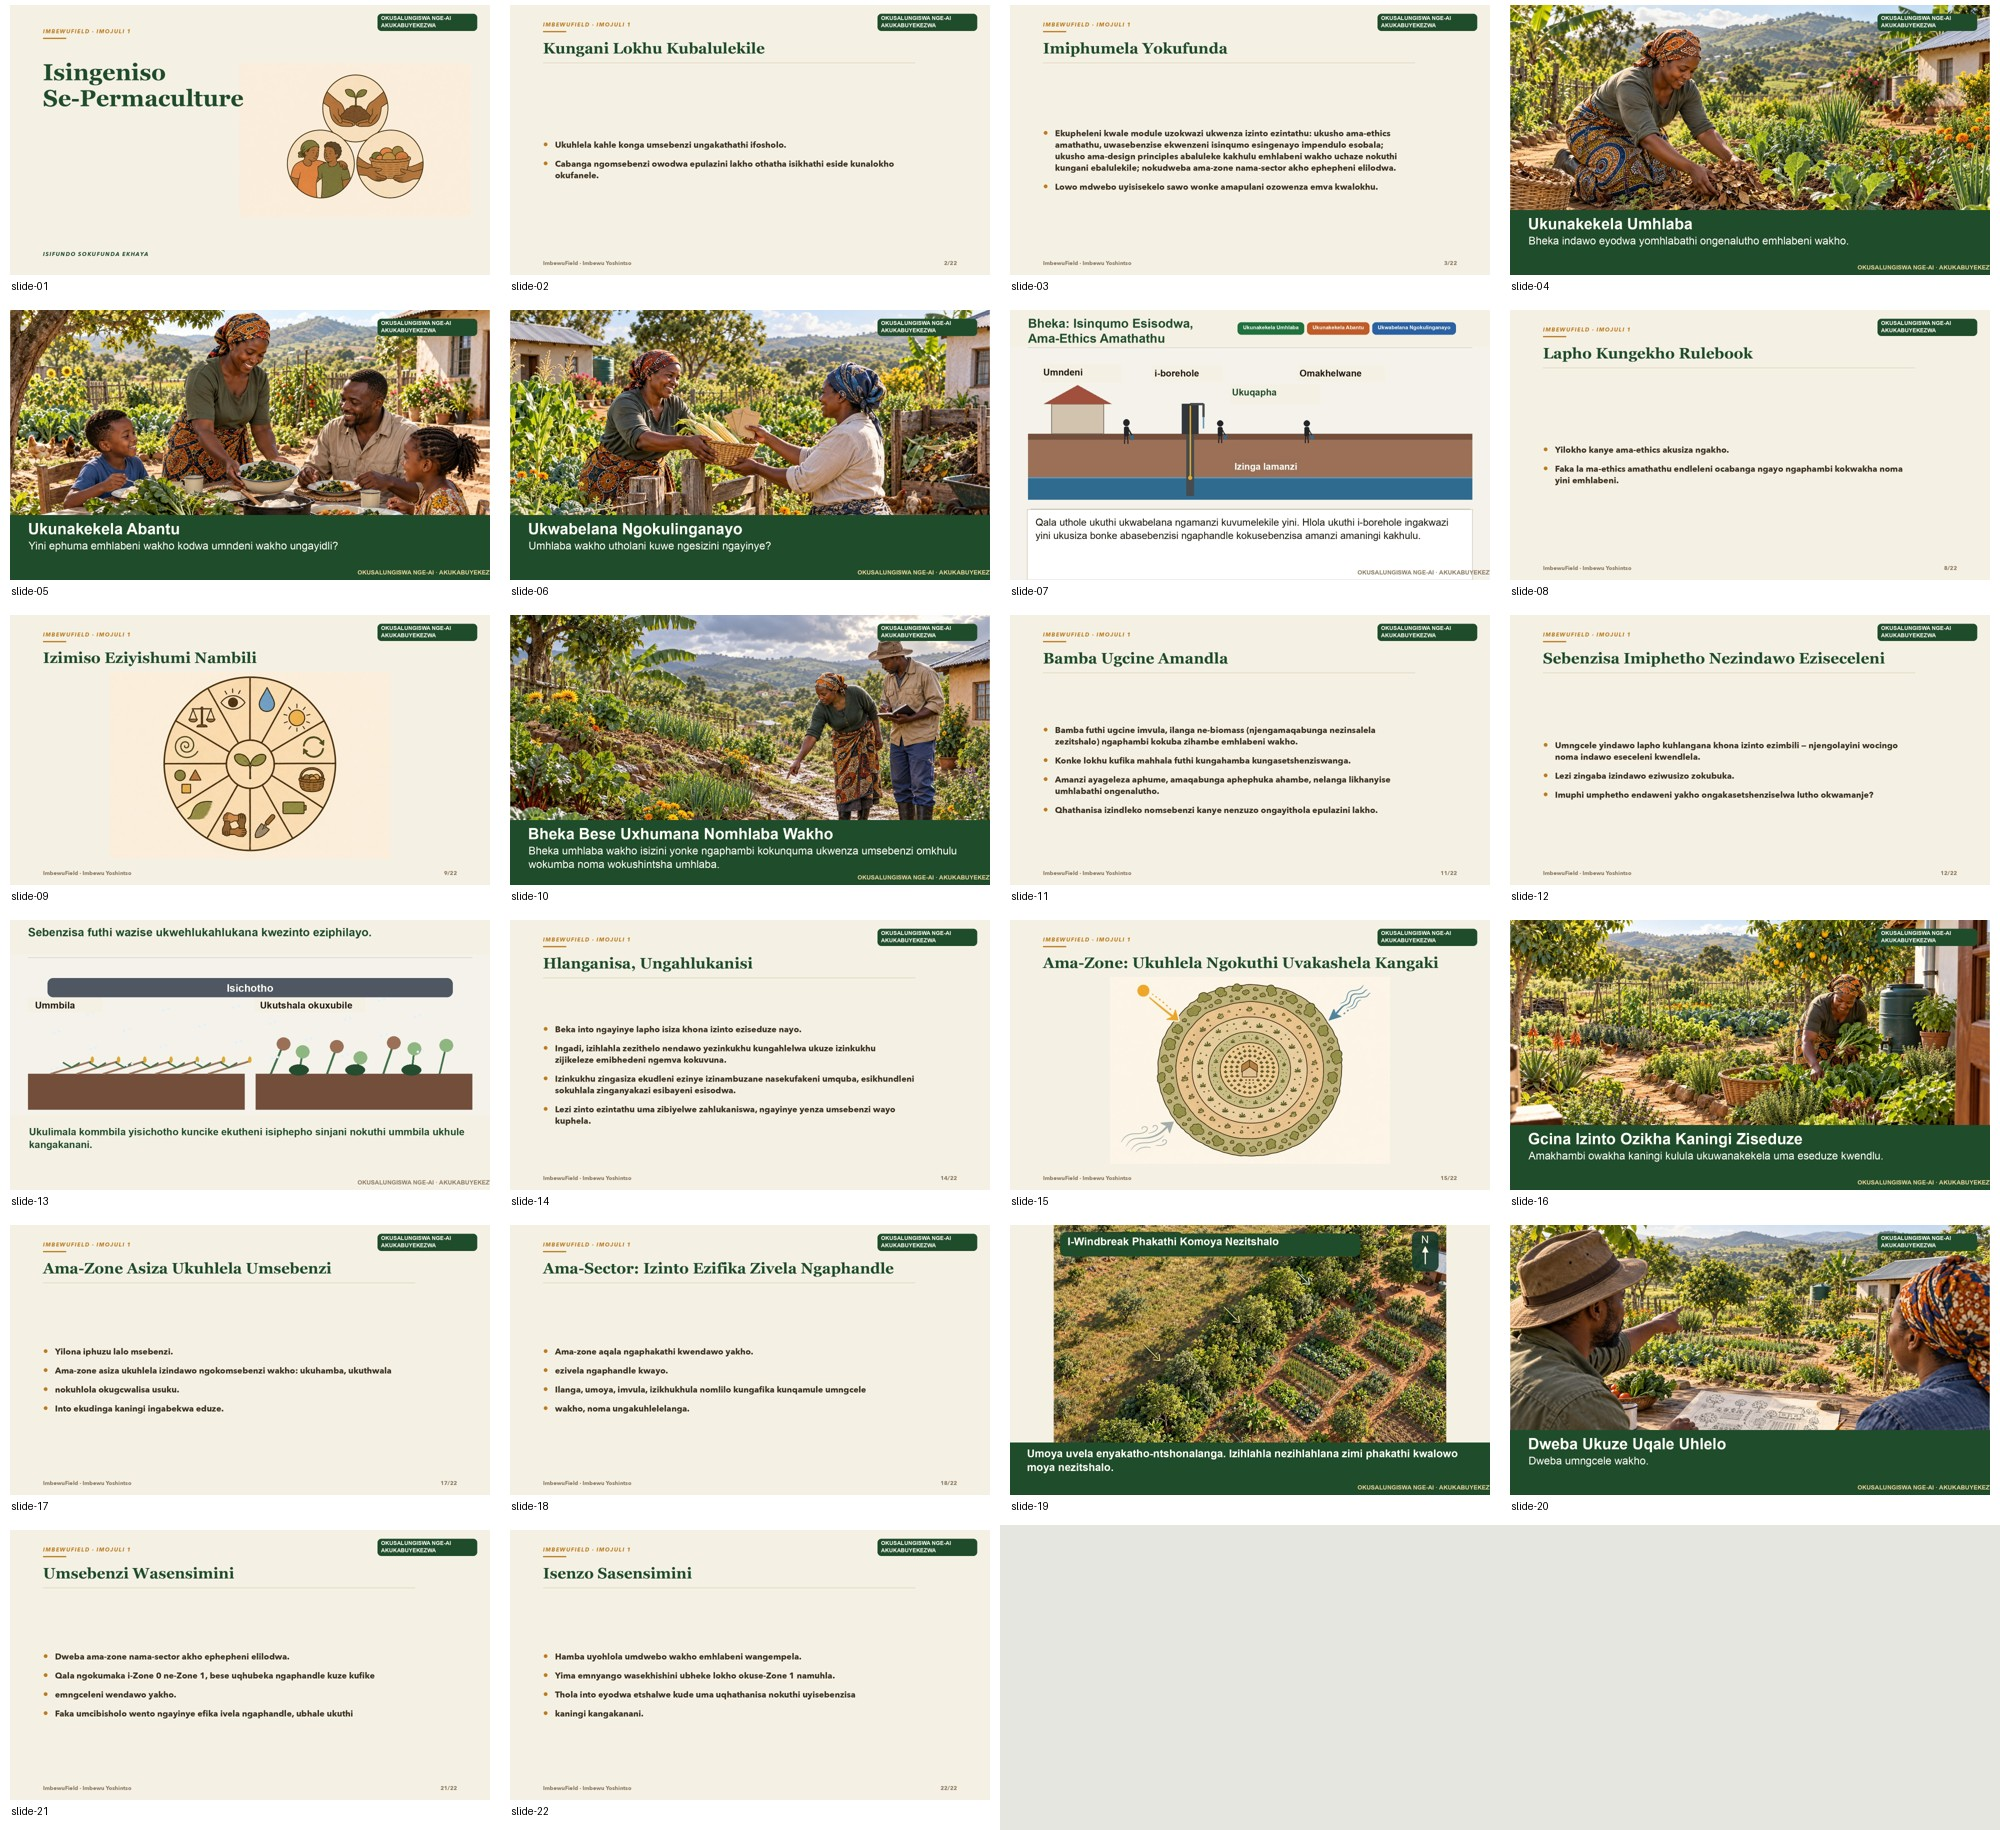
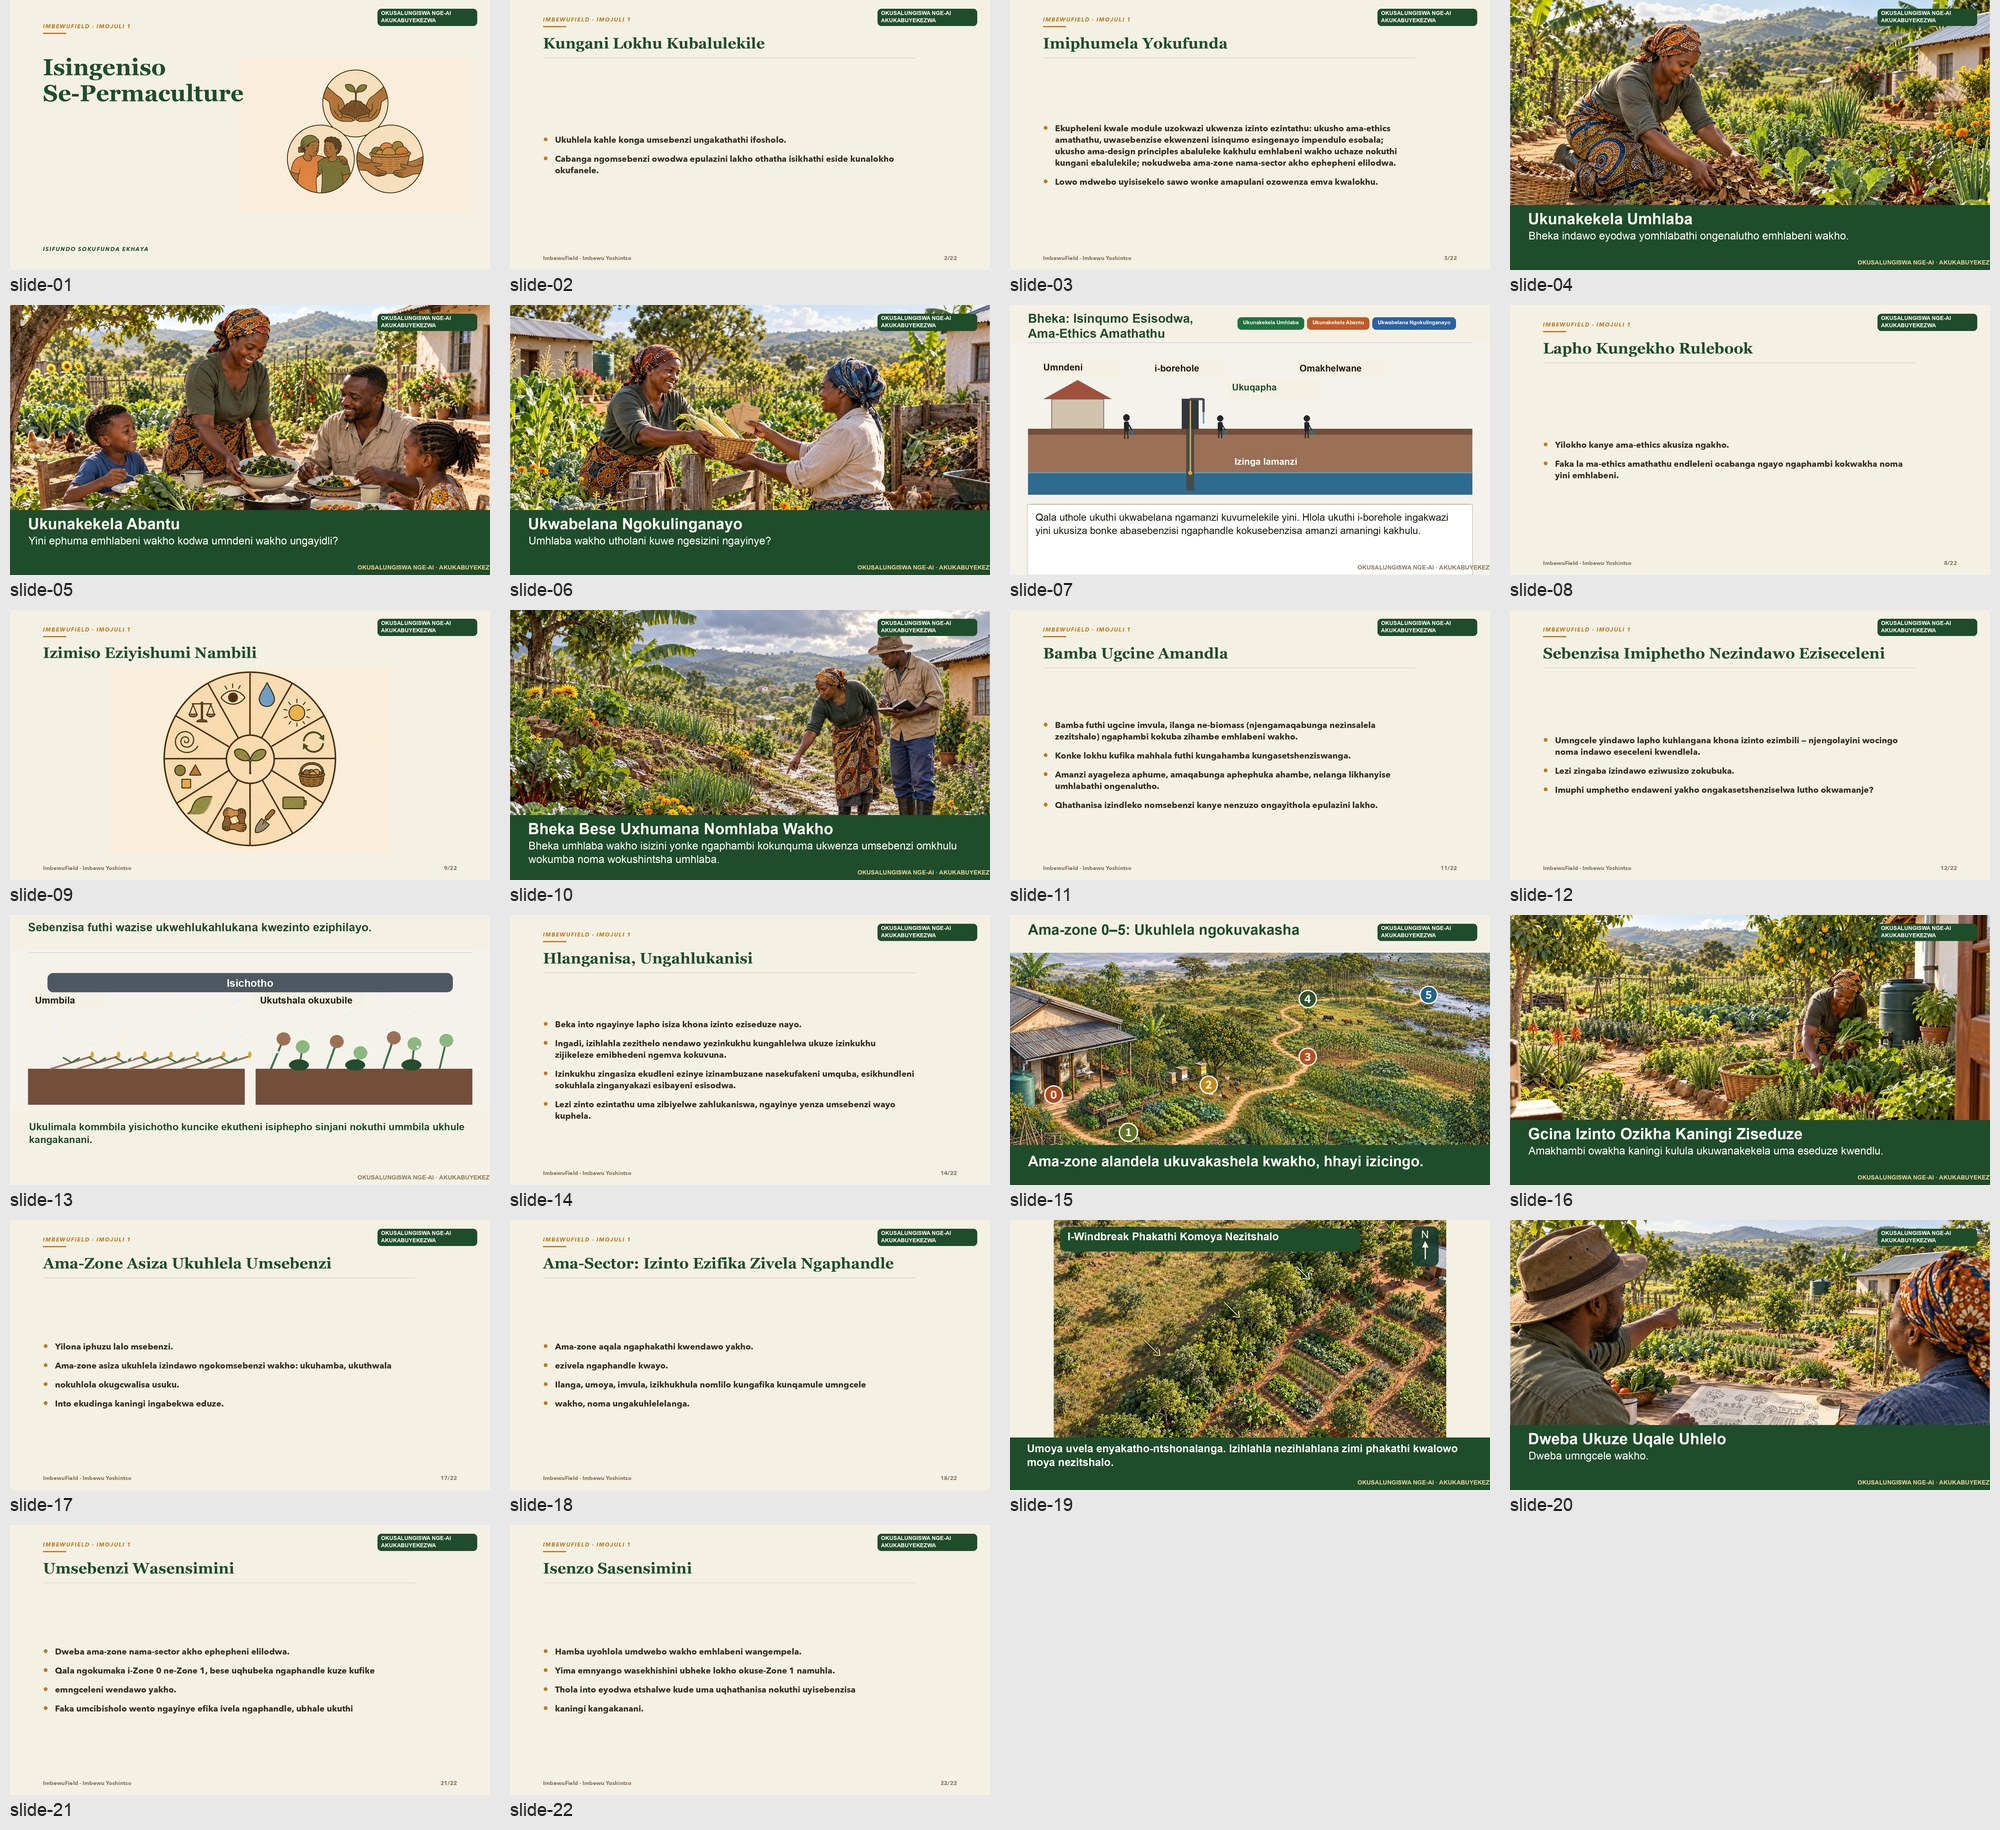
Show walking-path zones still in isiZulu Introduction (#542)

diff --git a/lib/course-asset-sizes.ts b/lib/course-asset-sizes.ts
@@ -3,7 +3,7 @@
 // Every course asset in public/, with its exact size. The offline download states a total before
 // it starts, and tests/offline-pack.test.ts fails if any entry here disagrees with disk.
 //
-// 970 files, 393.3 MB total.
+// 970 files, 393.7 MB total.
 
 export const COURSE_ASSET_SIZES: Readonly<Record<string, number>> = Object.freeze({
   '/course-animations/food-forest/flow-sheet-mulching-closeup.mp4': 6248424,
@@ -577,7 +577,7 @@ export const COURSE_ASSET_SIZES: Readonly<Record<string, number>> = Object.freez
   '/course-decks/intro-permaculture/zu/slide-12.jpg': 121669,
   '/course-decks/intro-permaculture/zu/slide-13.jpg': 136217,
   '/course-decks/intro-permaculture/zu/slide-14.jpg': 148615,
-  '/course-decks/intro-permaculture/zu/slide-15.jpg': 218701,
+  '/course-decks/intro-permaculture/zu/slide-15.jpg': 659781,
   '/course-decks/intro-permaculture/zu/slide-16.jpg': 654069,
   '/course-decks/intro-permaculture/zu/slide-17.jpg': 101820,
   '/course-decks/intro-permaculture/zu/slide-18.jpg': 109219,

diff --git a/lib/release-notes.ts b/lib/release-notes.ts
@@ -42,6 +42,12 @@ export interface UpdateTourStop {
 
 /** Shown newest-first under the Refresh button. The banner renders at most MAX_SHOWN lines total. */
 export const RELEASE_NOTES: ReleaseNote[] = [
+  { when: '24 September 2026', sha: '9a3326e0', changes: [
+    'The Introduction zones slide now shows a walking path with Zones 0–5.',
+  ], tour: [
+    { title: 'See the Zones picture', where: 'My Studies · Introduction to Permaculture', href: '/student',
+      detail: 'Choose isiZulu, open Introduction, and view slide 15.' },
+  ] },
   { when: '24 September 2026', sha: 'a59fbec9', changes: [
     'Food Forest Design now has 20 isiZulu slides.',
     'Hear the woman’s isiZulu narration; both are drafts for review.',

diff --git a/docs/media/intro-permaculture/render-zu-deck.py b/docs/media/intro-permaculture/render-zu-deck.py
@@ -124,6 +124,25 @@ def intro_watch(draw, slide_num):
         draw.text((1390, 1036), 'OKUSALUNGISWA NGE-AI · AKUKABUYEKEZWA', font=font(24, True), fill=(236, 211, 151))
 
 
+def intro_zones(image):
+    """Use a localized, static derivative for slide 15; labels follow its narration."""
+    art_path = Path('docs/media/intro-permaculture/zone-footpath-numbered-zu.png')
+    if not art_path.exists():
+        raise SystemExit(f'Missing localized zone still: {art_path}')
+    art = Image.open(art_path).convert('RGB').resize((1920, 1080), Image.Resampling.LANCZOS)
+    image.paste(art, (0, 0))
+    draw = ImageDraw.Draw(image)
+    draw.rectangle((0, 0, 1920, 150), fill=PAPER)
+    write_text(draw, (72, 26), 'Ama-zone 0–5: Ukuhlela ngokuvakasha', font(58, True), GREEN, 1320, 66)
+    draft_badge(draw, 1470, 35)
+    draw.rectangle((0, 920, 1920, 1080), fill=GREEN)
+    write_text(
+        draw, (72, 952),
+        'Ama-zone alandela ukuvakashela kwakho, hhayi izicingo.',
+        font(58, True), WHITE, 1775, 66,
+    )
+
+
 CURRENT_SLIDE_TITLE = 'I-Windbreak Phakathi Komoya Nezitshalo'
 
 
@@ -159,6 +178,8 @@ def main():
             scene_panel(draw, slide)
         if args.module == 'intro-permaculture' and number in {7, 13, 19}:
             intro_watch(draw, number)
+        elif args.module == 'intro-permaculture' and number == 15:
+            intro_zones(image)
         else:
             draft_badge(draw, 1470, 35)
         image.save(out_dir / f'slide-{number:02}.jpg', 'JPEG', quality=88, optimize=True)

diff --git a/docs/media/intro-permaculture/README.md b/docs/media/intro-permaculture/README.md
@@ -91,3 +91,21 @@ source check: slide 7 asks learners to check sharing permission and borehole
 capacity; slide 13 says hail damage depends on the storm and maize growth stage
 and makes no survival promise. No fluent isiZulu or human farming review is
 claimed by the contact sheet or viewport check.
+
+### Zone still update — 24 September 2026
+
+Slide 15 now uses a static isiZulu derivative of Rory's ChatGPT Library image
+`ImbewuField_M1_Zones_Footpath.png`, saved as
+`zone-footpath-numbered-zu.png`. The derivative keeps the smallholder landscape
+and numbered markers while removing the English cards. The slide title and
+caption follow the existing narration: Zones 0–5 are organised by visits and
+work, not by fences. The short caption keeps that point readable at phone width,
+and the AI-draft badge remains at the top right. The picture is conceptual and
+not to scale; its markers show examples, not required boundaries or fixed
+distances. Its numbered scenes
+show the home and kitchen garden close by, a garden and poultry, a field, a
+managed tree area, and a wild river edge. The narration remains authoritative
+for the examples: Zone 2 is the larger garden and chicken run, Zone 3 the large
+field, and Zone 4 semi-wild fruit trees and fodder. This is an unreviewed AI
+draft; no narration or lesson text was changed and no Flow credits or SVG were
+used.
